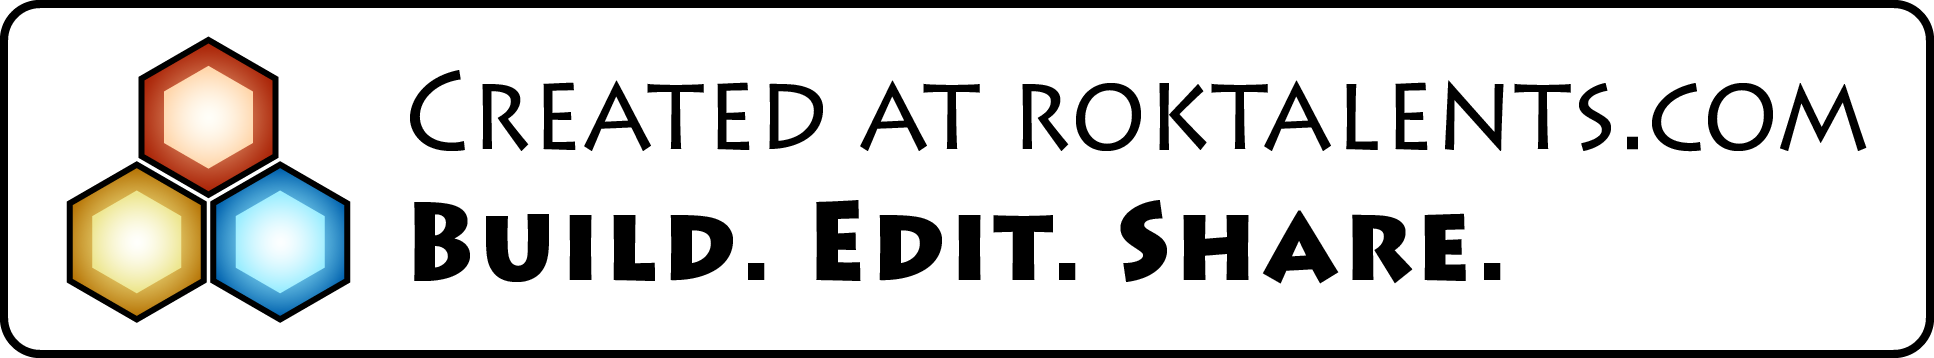
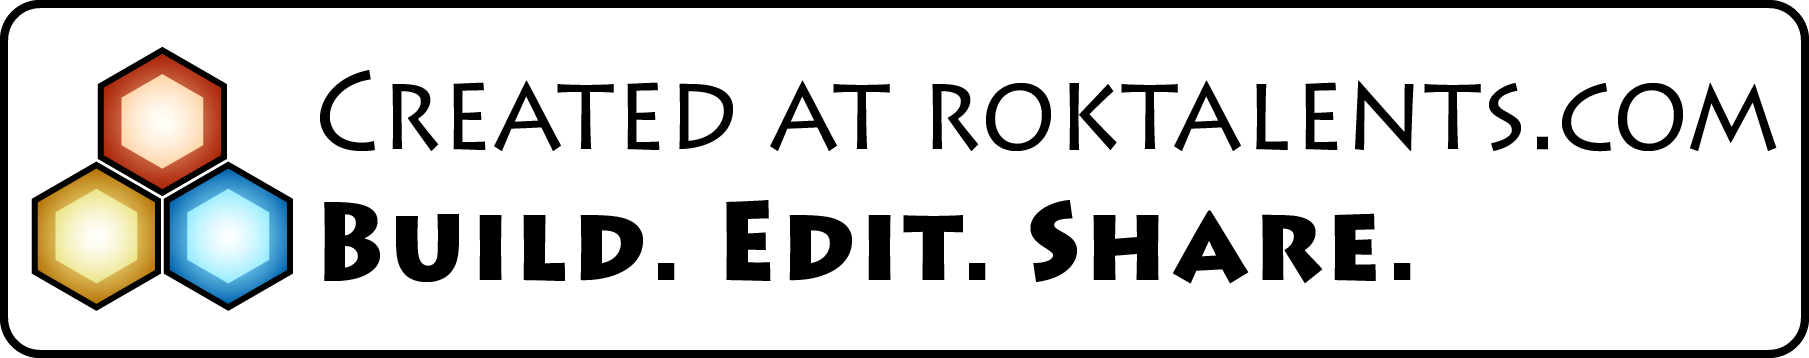
Change screenshot format to jpg

diff --git a/src/NavBarButtons.js b/src/NavBarButtons.js
@@ -36,7 +36,7 @@ function NavBarButtons(props) {
     const dpr = window.devicePixelRatio || 1;
 
     domtoimage
-      .toPng(node, {
+      .toJpeg(node, {
         height: node.offsetHeight * dpr,
         width: node.offsetWidth * dpr,
         style: {
@@ -107,7 +107,7 @@ function NavBarButtons(props) {
               props.yellow,
               props.blue,
               '-'
-            )}.png`;
+            )}.jpg`;
 
             document.body.appendChild(img);
             img.click();
